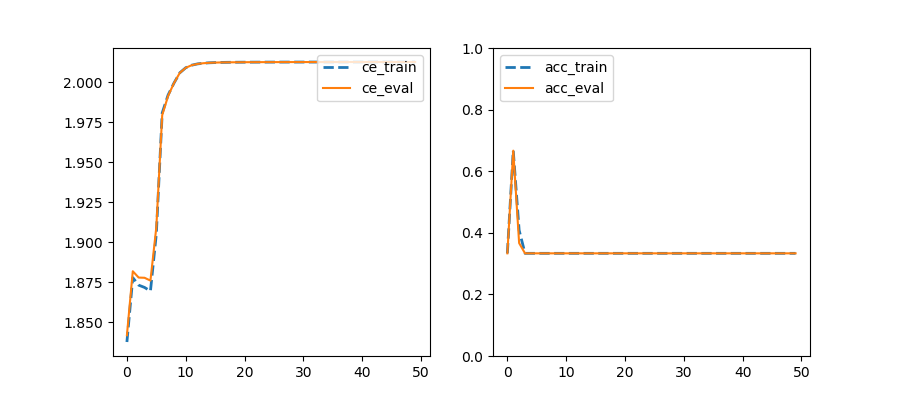
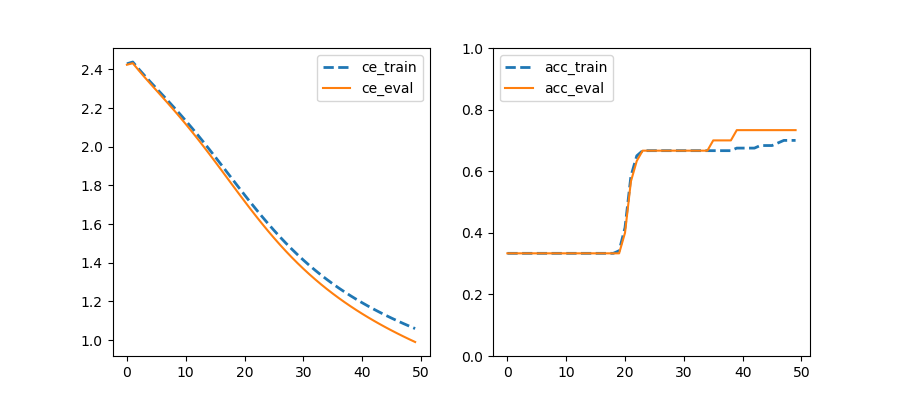
modify the code, solve the error: 1. compute error_signal wrong; 2. inference function: compute output, apply softmax twice

diff --git a/network.py b/network.py
@@ -99,7 +99,7 @@ def tanh(x, deriv=False):
 
 
 def sigmoid(x, deriv=False):
-    '''
+    """
     Task 2a
     This function is the sigmoid function. It gets an input digit or vector and should return sigmoid(x).
     The parameter "deriv" toggles between the sigmoid and the derivate of the sigmoid. Hint: In the case of the derivate
@@ -107,7 +107,7 @@ def sigmoid(x, deriv=False):
     :param x:       type: np.array
     :param deriv:   type: Boolean
     :return:        type: np.array
-    '''
+    """
     if deriv:
         return x * (1 - x)
     else:
@@ -115,25 +115,19 @@ def sigmoid(x, deriv=False):
 
 
 def softmax(x, deriv=False):
-    '''
+    """
     Task 2a
     This function is the sigmoid function with a softmax applied. This will be used in the last layer of the network
     The derivate will be the same as of sigmoid(x)
-    TODO: This means we need to apply sigmoid over x firstly, then apply softmax? I implement it without sigmoid
     :param x:       type: np.array
     :param deriv:   type: Boolean
     :return:        type: np.array
-    '''
+    """
     if deriv:
         return x * (1 - x)
     else:
         exps = np.exp(x)
         return exps / np.sum(exps)
-
-    # x = np.array(list(map(np.exp, x)))
-    # s = np.sum(x)
-    # for index, item in enumerate(x):
-    #     x[index] = item / s
 
 
 class Layer:
@@ -157,8 +151,9 @@ class Layer:
         You can search the literature for possible initialization methods.
         :return: None
         """
-        self.weights = np.random.randn(self.ni, self.no) * np.sqrt(2 / self.ni)
-
+        # self.weights = np.random.randn(self.ni, self.no) * np.sqrt(2 / self.ni)
+        self.weights = np.random.uniform(-0.1, 0.1, size=(self.ni, self.no))
+        self.biases = np.random.uniform(-0.1, 0.1, size=(self.no))
 
     def inference(self, x):
         """
@@ -191,16 +186,12 @@ class Layer:
         gradients_weight = np.matmul(self.last_input.reshape(self.ni, 1), \
                                      (error * sigmoid(self.last_output, True)).reshape(1, self.no))
         gradients_bias = error * sigmoid(self.last_output, True)
-
         # print("gradients_weight: ", gradients_weight, '\n', 'gradients_bias:', gradients_bias, '\n')
-
         error_signal = np.matmul((error * sigmoid(self.last_output, True)).reshape(1, self.no), self.weights.T)
         # print("error_signal: ", error_signal, "in layer:", self.ni, self.no)
-        self.weights = self.weights - 0.1 * gradients_weight
-        self.biases = self.biases - 0.1 * gradients_bias
         # print('After backprop, weithes: \n', self.weights, '\n', 'biases: \n', self.biases)
         # print('-------------End: have done backprop once-----------')
-        return self.weights, self.biases, error_signal
+        return gradients_weight, gradients_bias, error_signal
 
 
 # we apply softmax on the output layer, so the error of particular x_n is the log(output).
@@ -232,7 +223,7 @@ class BasicNeuralNetwork():
         self.layers[0].inference(x)
         for i in range(1, len(self.ls)):
             self.layers[i].inference(self.layers[i - 1].last_output)
-        output = softmax(self.layers[len(self.ls)].inference(self.layers[len(self.ls) - 1].last_output))
+        output = self.layers[len(self.ls)].inference(self.layers[len(self.ls) - 1].last_output)
         # print("------", output, "-------")
         return output
 
@@ -286,16 +277,17 @@ class BasicNeuralNetwork():
         :param dataset:
         :return: None
         """
-        dataset.reset()
-        for index in range(dataset.num_obs):
-            output = self.forward(dataset.obs[index])
-            # error = np.sum(np.nan_to_num(-dataset.classes[index] * np.log(output) \
-            #                              - (1 - dataset.classes[index]) * np.log(1 - output)))
-            # error = - np.sum(np.log(output) * dataset.classes[index])  # TODO: local error, type: float32?
-            error_signal = - dataset.classes[index] * (1 - output)
-            print(error_signal)
+        dataset = dataset.get_all_obs_class(True)
+        for item in dataset:
+            output = self.forward(item[0])
+            # error_signal = - item[1] * (1 - output)
+            # error_signal = 1 - output
+            error_signal = output - item[1]
             for i in range(len(self.ls), -1, -1):
-                weights, bias, error_signal = self.layers[i].backprop(error_signal)
+                gradients_weight, gradients_bias, error_signal = self.layers[i].backprop(error_signal)
+                self.layers[i].weights = self.layers[i].weights - self.lr * gradients_weight
+                self.layers[i].biases = self.layers[i].biases - self.lr * gradients_bias
+
 
     def mini_batch_SGD(self, dataset):
         """
@@ -305,18 +297,17 @@ class BasicNeuralNetwork():
         :return: None
         """
         dataset.reset()
-        while dataset.index < dataset.num_obs:
-            error = 0
+        mini_batches = dataset.get_mini_batches(self.mbs)
+        for item in mini_batches:
             error_signal = 0
-            for j in range(self.mbs):
-                dataset.__next__()
-                output = self.forward(dataset.obs[dataset.index-1])
-                # error += - np.sum(np.log(output) * dataset.classes[dataset.index-1]) # TODO: mini_batch error, type: float32?
-                # error += np.sum(np.nan_to_num(-dataset.classes[dataset.index] * np.log(output) \
-                #                              - (1 - dataset.classes[dataset.index]) * np.log(1 - output)))
-                error_signal +=  - dataset.classes[dataset.index-1] * (1 - output)
+            for i in range(self.mbs):
+                output = self.forward(item[0][i])
+                error_signal += output - item[1][i]
+            error_signal = error_signal / self.mbs
             for k in range(len(self.ls), -1, -1):
-                weights, bias, error_signal = self.layers[k].backprop(error_signal)
+                gradients_weight, gradients_bias, error_signal = self.layers[k].backprop(error_signal)
+                self.layers[k].weights = self.layers[k].weights - self.lr * gradients_weight
+                self.layers[k].biases = self.layers[k].biases - self.lr * gradients_bias
 
     def constructNetwork(self):
         """
@@ -339,11 +330,7 @@ class BasicNeuralNetwork():
         ce = 0
         for x, t in dataset:
             t_hat = self.forward(x)
-            print("ce function forward output:",t_hat)
-            print("ce function:", t)
             ce += np.sum(np.nan_to_num(-t * np.log(t_hat) - (1 - t) * np.log(1 - t_hat)))
-
-
         return ce / dataset.num_obs
 
     def accuracy(self, dataset):

diff --git a/task_2a.py b/task_2a.py
@@ -8,6 +8,7 @@ net = BasicNeuralNetwork()
 net.load('./task_2a.save')
 acc = net.accuracy(testDataset)
 if acc > 0.5:
+    print(acc)
     print('Forwarding seems to function correctly')
 else:
     print('There seem to be errors with your computation of the network outputs')

diff --git a/task_2e.py b/task_2e.py
@@ -8,6 +8,5 @@ print("\nLoading Iris test data ")
 testDataPath = "irisTestData.txt"
 testDataset = IrisDataset(testDataPath)
 
-net = BasicNeuralNetwork()
-net.mbs = 0
+net = BasicNeuralNetwork(mini_batch_size=8, layer_sizes=[100])
 net.train(trainDataset, testDataset)
